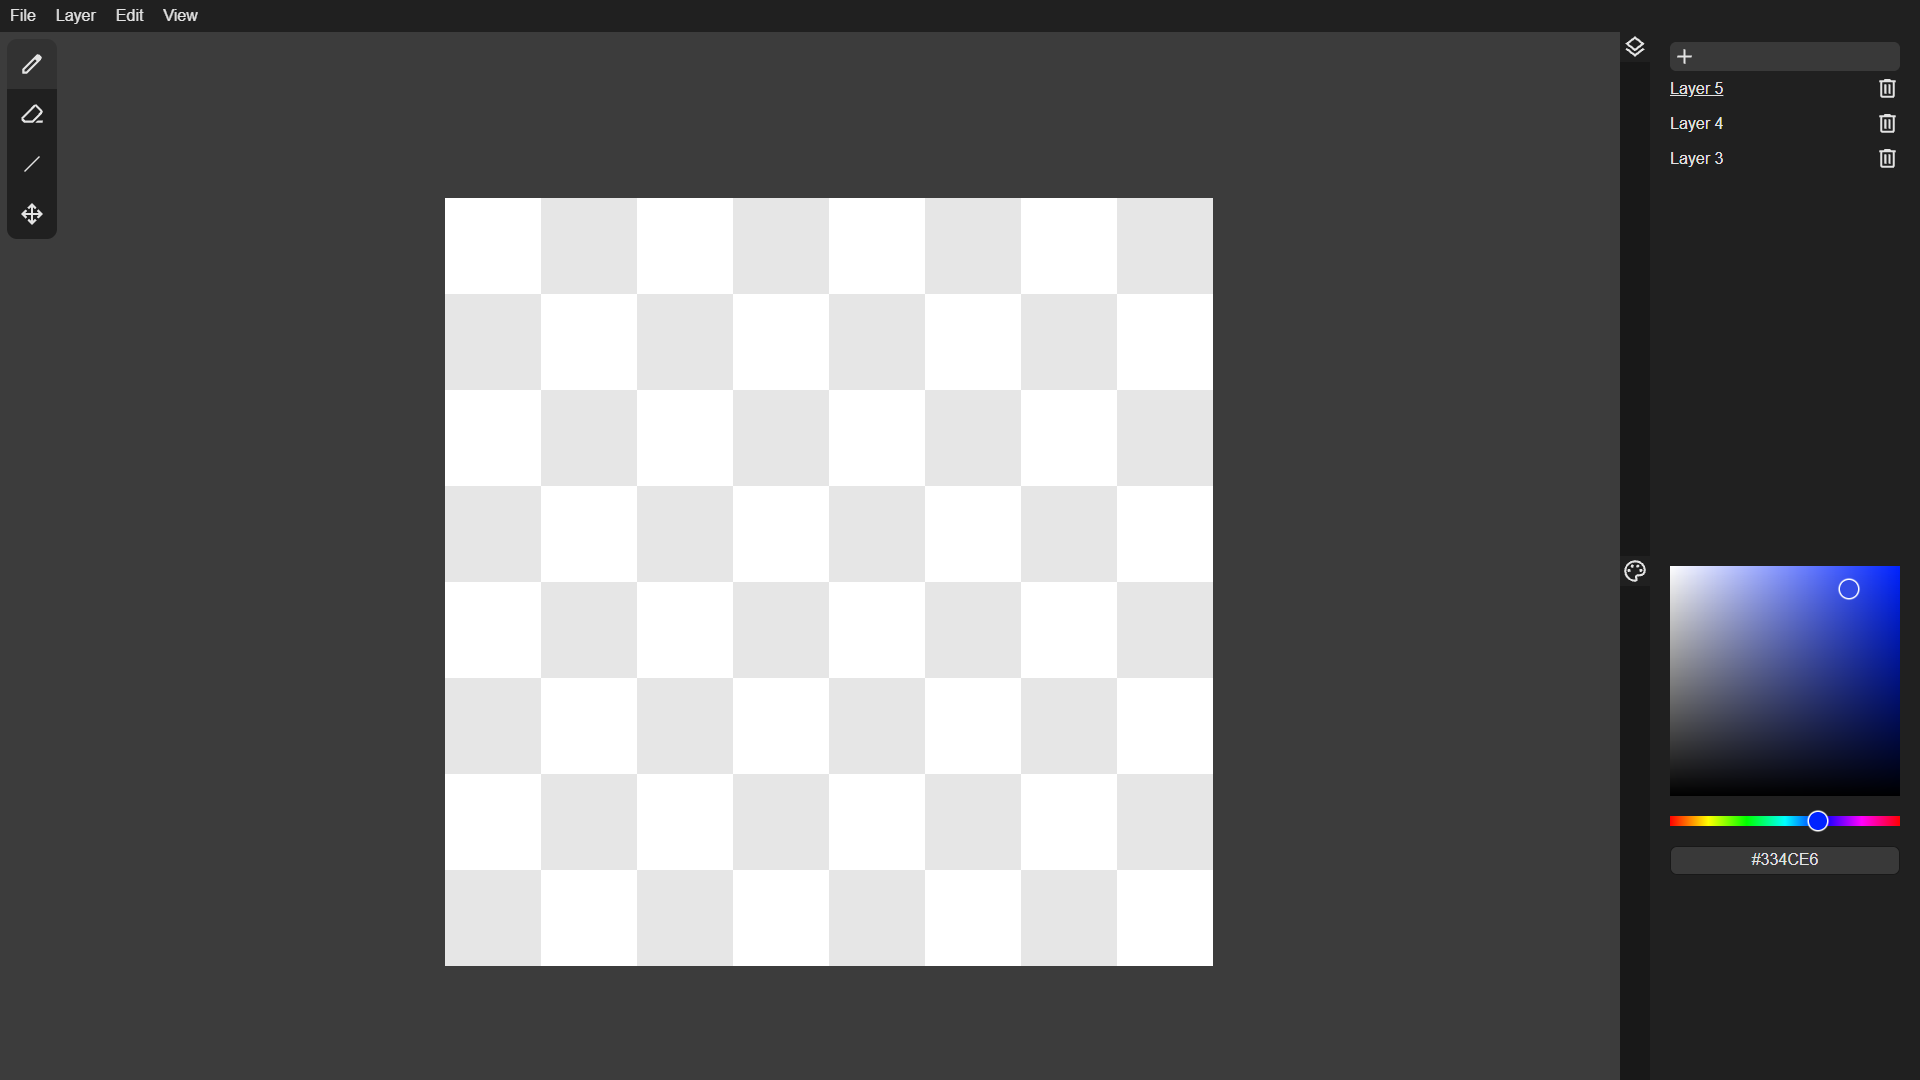
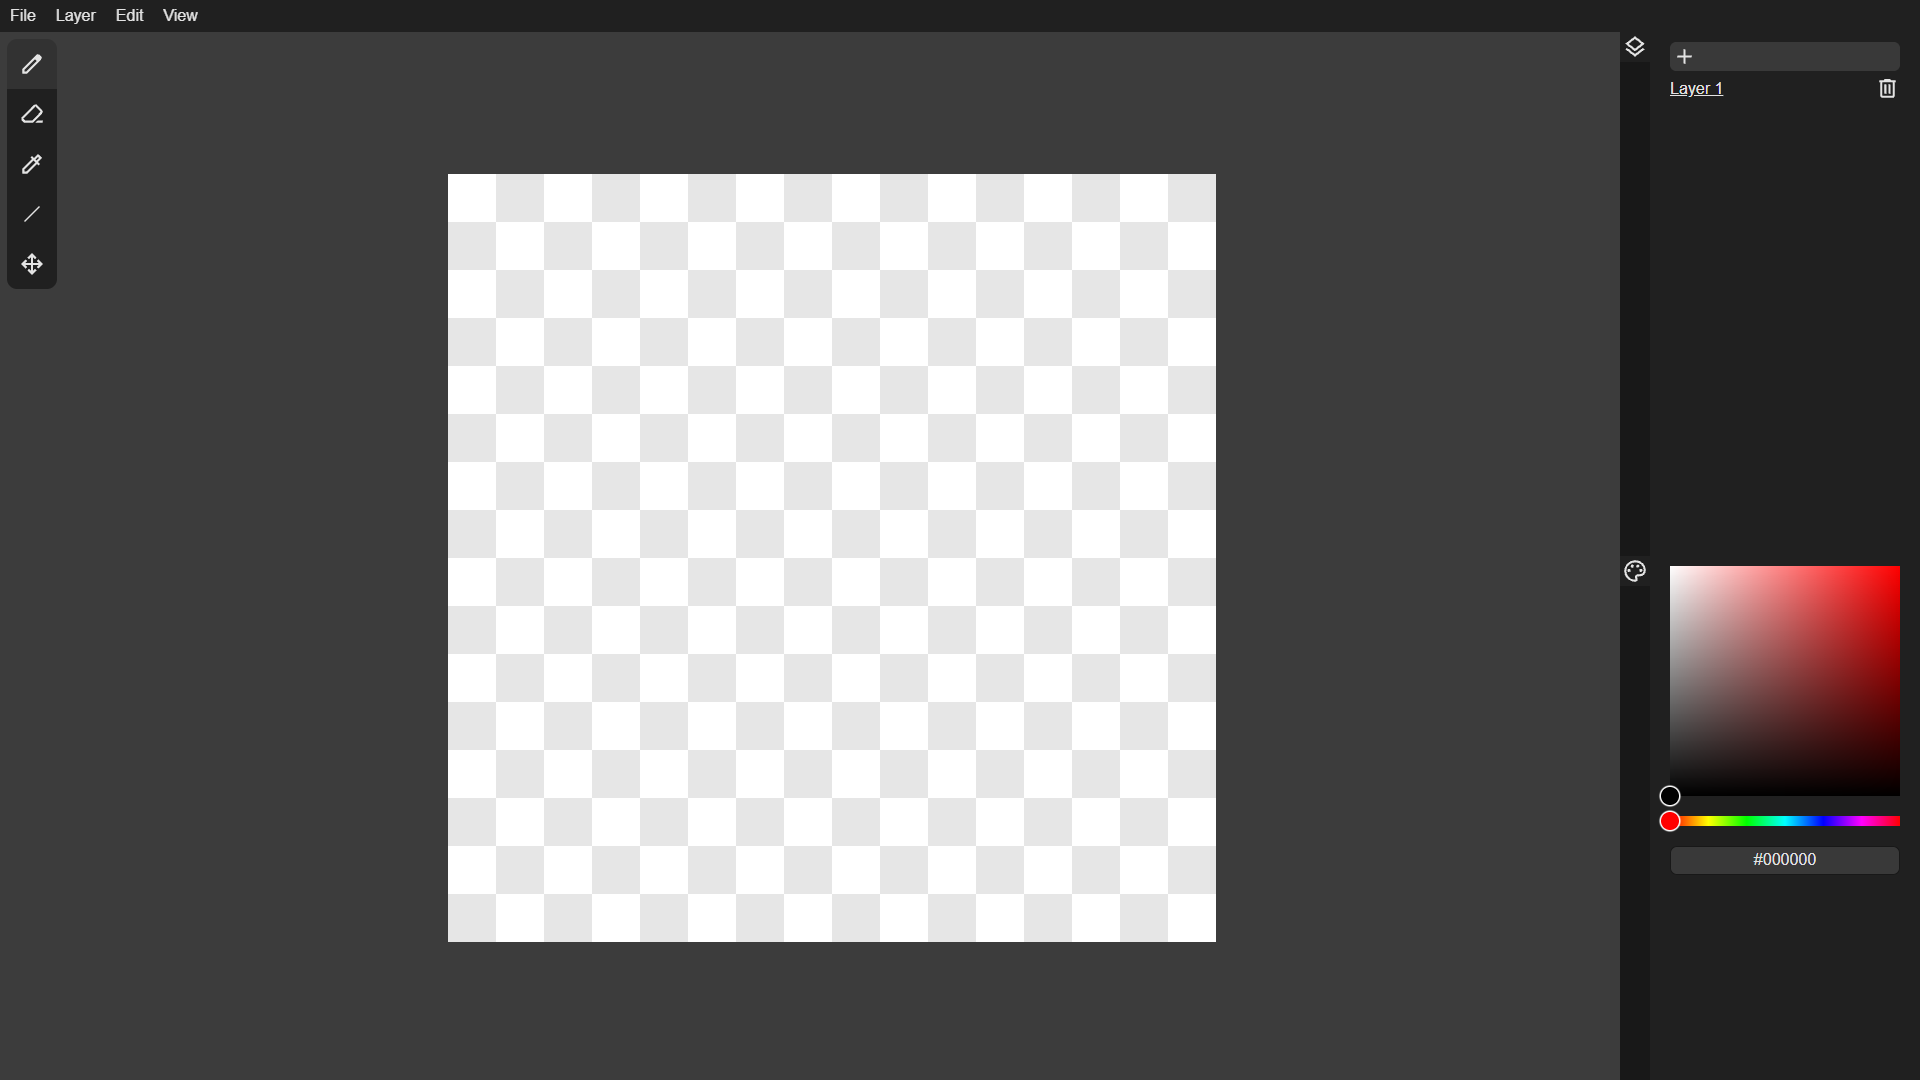
docs: update README

diff --git a/README.md b/README.md
@@ -3,8 +3,36 @@
 </p>
 <h1 align="center">Vivid Pixel</h1>
 
-Minimalistic web-based pixel art editor
+Vivid Pixel is a minimalistic, lightweight, fast, and intuitive tool for creating pixel art right in your browser, powered by Vue.
+
+## Demo
+
+Live Demo: https://garusu.github.io/VividPixel/
 
 <p align="center">
-  <img src="./docs/screenshot.png" alt="Screenshot" width="60%">
+  <img src="./docs/screenshot.png" alt="Screenshot" width="90%">
 </p>
+
+## Features
+
+* Convenient drawing tools
+* Layer management
+* Instant import and export
+* Hotkeys support
+
+## Build
+
+1. Сlone the repository
+```bash
+git clone https://github.com/garusu/VividPixel.git
+```
+
+2. Install dependencies
+```bash
+npm i
+```
+
+3. Build
+```bash
+npm run build
+```
